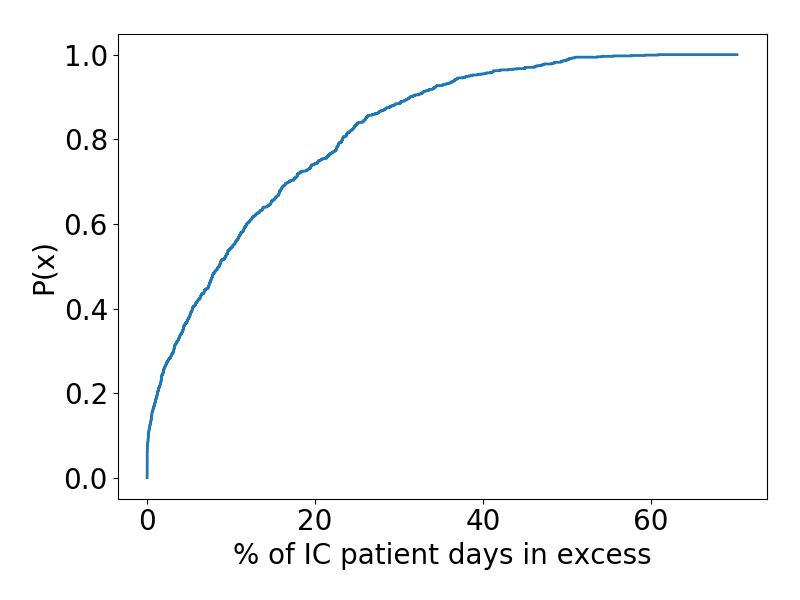
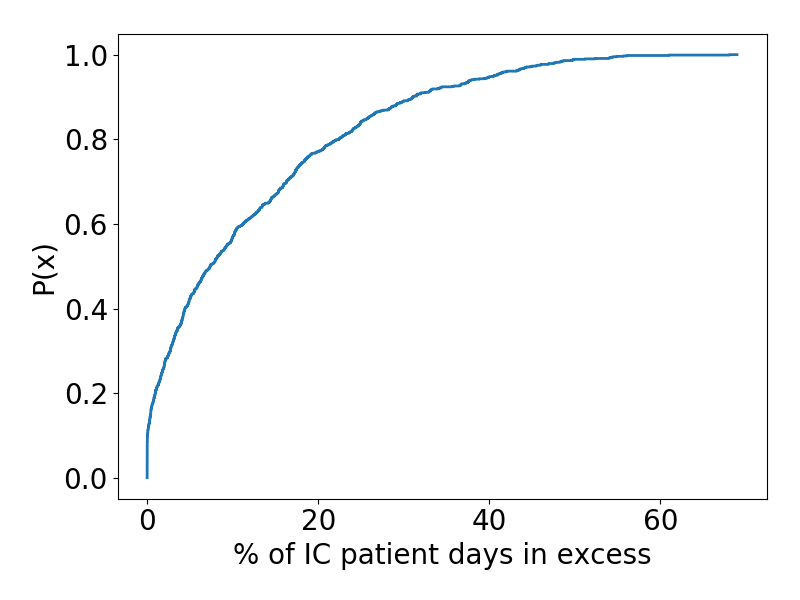
update plots for phased opening

diff --git a/EasyVVUQ/cdf_post_proc_corona.py b/EasyVVUQ/cdf_post_proc_corona.py
@@ -22,7 +22,7 @@ plt.rcParams['figure.figsize'] = 8,6
 HOME = os.path.abspath(os.path.dirname(__file__))
 
 # Reload the campaign
-my_campaign = uq.Campaign(state_file = "campaign_state_IL_MC1000.json", work_dir = "/tmp")
+my_campaign = uq.Campaign(state_file = "campaign_state_PO_MC1000.json", work_dir = "/tmp")
 print('========================================================')
 print('Reloaded campaign', my_campaign.campaign_dir.split('/')[-1])
 print('========================================================')
@@ -108,7 +108,7 @@ ax_e.set_xscale('log')
 
 ax_p.legend(loc='best')
 plt.tight_layout()
-f.savefig('figures/cdf_IL_MC1000.png')
+f.savefig('figures/cdf_PO_MC1000.png')
 
 f = plt.figure('IC_ex_percentage_cdf')
 ax = f.add_subplot(111, xlabel='% of IC patient days in excess', ylabel='P(x)')
@@ -116,6 +116,6 @@ ax.step(IC_ex_percentage*100,p,lw=2)
 #ax.axvline(x=IC_ex_threshold*100,color='tab:orange')
 
 plt.tight_layout()
-f.savefig('figures/cdf_IL_IC_ex_percentage')
+f.savefig('figures/cdf_PO_IC_ex_percentage')
 
 plt.show()
